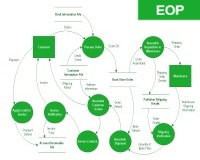
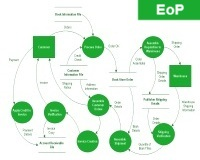
tests y sintaxis

Changed region(s): [[0.78, 0.0, 0.93, 0.0938]]

diff --git a/td.vue/tests/unit/components/threatEditDialog.spec.js b/td.vue/tests/unit/components/threatEditDialog.spec.js
@@ -195,28 +195,23 @@ describe('components/ThreatEditDialog.vue', () => {
     });
 
     describe('cornucopia link', () => {
-// test creado por guille:muestra link de cornucopia cuando es STRIDE con cardId
-        it('renders link for STRIDE with cardId', async () => {
-        const store=new Vuex.Store({
-            state:{
-                cell:{ref:{getData:jest.fn(),data:{
-                    threatFrequency:{availability: 0,confidentiality: 0,integrity: 0},
-                    threats:[{...getThreatData(),modelType:'STRIDE',type:'STRIDE: VE2',cardId:'https://cornucopia.owasp.org/cards/VE2'}]}}}
-            },
-            actions:{CELL_DATA_UPDATED:()=>{}}
-        });
-            wrapper = shallowMount(TdThreatEditDialog,{localVue,mocks:{$t:key=>key},store});
+// test creado por guille:muestra link de cornucopia cuando es EOP con suit y number
+        it('renders link for EOP with suit and number', async () => {
+            const store=new Vuex.Store({state:{cell:{ref:{getData:jest.fn(),data:{threatFrequency:{availability:0,confidentiality:0,integrity:0},threats:[{...getThreatData(),modelType:'EOP'}]}}}},actions:{CELL_DATA_UPDATED:()=>{}}});
+            wrapper=shallowMount(TdThreatEditDialog,{localVue,mocks:{$t:k=>k},store});
             wrapper.vm.$refs.editModal={show:jest.fn(),hide:jest.fn()};
             wrapper.vm.editThreat(threatId);
+            wrapper.vm.card.suit='DATA VALIDATION & ENCODING';
+            wrapper.vm.card.number='VE2';
             await wrapper.vm.$nextTick();
             const link=wrapper.find('a');
             expect(link.exists()).toBe(true);
             expect(link.attributes('href')).toBe('https://cornucopia.owasp.org/cards/VE2');
-            expect(link.text()).toContain('Card details');
+            expect(link.text()).toContain('VE2');
         });
 
-// test creado por guille:no muestra link si el modelo no es STRIDE
-        it('hides link when model is not STRIDE', () => {
+// test creado por guille:no muestra link si el modelo no es EOP
+        it('hides link when model is not EOP', () => {
             const store=new Vuex.Store({
                 state:{cell:{ref:{getData:jest.fn(),data:{
                     threatFrequency:{availability:0,confidentiality:0,integrity:0},
@@ -239,11 +234,15 @@ describe('components/ThreatEditDialog.vue', () => {
             expect(wrapper.vm.modalTitle).toBe('threats.edit #0');
         });
 
-// test creado por guille: threatTypes vacio si no hay threat
+//test creado por guille: threatTypes vacio si no hay threat
         it('returns empty threatTypes when no threat', () => {
             wrapper = getWrapper();
             wrapper.vm.threat = null;
             expect(wrapper.vm.threatTypes).toEqual([]);
         });
+    });
+
+    describe('cornucopia selects', () => {
+
     });
 });

diff --git a/td.vue/src/views/ThreatModelEdit.vue b/td.vue/src/views/ThreatModelEdit.vue
@@ -106,7 +106,7 @@
                                 class="mb-3"
                             >
                                 <b-input-group-prepend>
-                                    <b-dropdown variant="secondary" class="select-diagram-type" :text="model.detail.diagrams[idx].diagramType">
+                                    <b-dropdown variant="secondary" class="select-diagram-type" :text="model.detail.diagrams[idx].diagramType === 'EOP' ? 'EoP' : model.detail.diagrams[idx].diagramType">
                                         <b-dropdown-item-button @click="onDiagramTypeClick(idx, 'CIA')">{{ $t('threatmodel.diagram.cia.select') }}</b-dropdown-item-button>
                                         <b-dropdown-item-button @click="onDiagramTypeClick(idx, 'CIADIE')">{{ $t('threatmodel.diagram.die.select') }}</b-dropdown-item-button>
                                         <b-dropdown-item-button @click="onDiagramTypeClick(idx, 'LINDDUN')">{{ $t('threatmodel.diagram.linddun.select') }}</b-dropdown-item-button>
@@ -306,7 +306,7 @@ export default {
                 placeholder = this.$t('threatmodel.diagram.stride.defaultDescription');
                 break;
 
-            case 'EOP':
+            case 'EoP':
                 thumbnail = './public/content/images/thumbnail.eop.jpg';
                 defaultTitle = this.$t('threatmodel.diagram.eop.defaultTitle');
                 placeholder = this.$t('threatmodel.diagram.eop.defaultDescription');

diff --git a/td.vue/src/components/ThreatEditDialog.vue b/td.vue/src/components/ThreatEditDialog.vue
@@ -77,9 +77,8 @@
                 </b-form-row>
                 
 
-                <!-- BEGINNING ROW GASPI - INFO CARD AND LINK TO THE CARD-->
                 <b-form-row
-                    v-if="threat && threat.modelType === 'EOP' && card.number && filteredCardNumbers.some(option => option.value === card.number)"
+                   v-if="threat && threat.modelType === 'EOP' && card.number && filteredCardNumbers.some(option => option.value === card.number)"
                     style="margin-bottom: 16px"
                 >
                     <b-col>
@@ -98,7 +97,7 @@
                                 display: inline-block;
                             "
                         >
-                            Card details: {{ cornucopiaCardSection}}
+                            Card details: {{ cornucopiaCardSection.charAt(0) + cornucopiaCardSection.slice(1).toLowerCase() }}
                             {{
                                 cornucopiaCardDetails
                                     ? ` ${cornucopiaCardDetails.sectionID}`
@@ -107,7 +106,7 @@
                         </a>
                     </b-col>
                 </b-form-row>
-                <!-- END ROW GASPI - CARD AND LINK TO THE CARD-->
+
                 <b-form-row>
                     <b-col md="5">
                         <b-form-group

diff --git a/td.vue/src/i18n/en.js b/td.vue/src/i18n/en.js
@@ -154,9 +154,9 @@ const eng = {
                 select: 'CIA'
             },
             eop: {
-                defaultTitle: 'New EOP diagram',
-                defaultDescription: 'New EOP diagram description',
-                select: 'EOP'
+                defaultTitle: 'New EoP diagram',
+                defaultDescription: 'New EoP diagram description',
+                select: 'EoP'
             }
         },
         threats: 'Threats',
